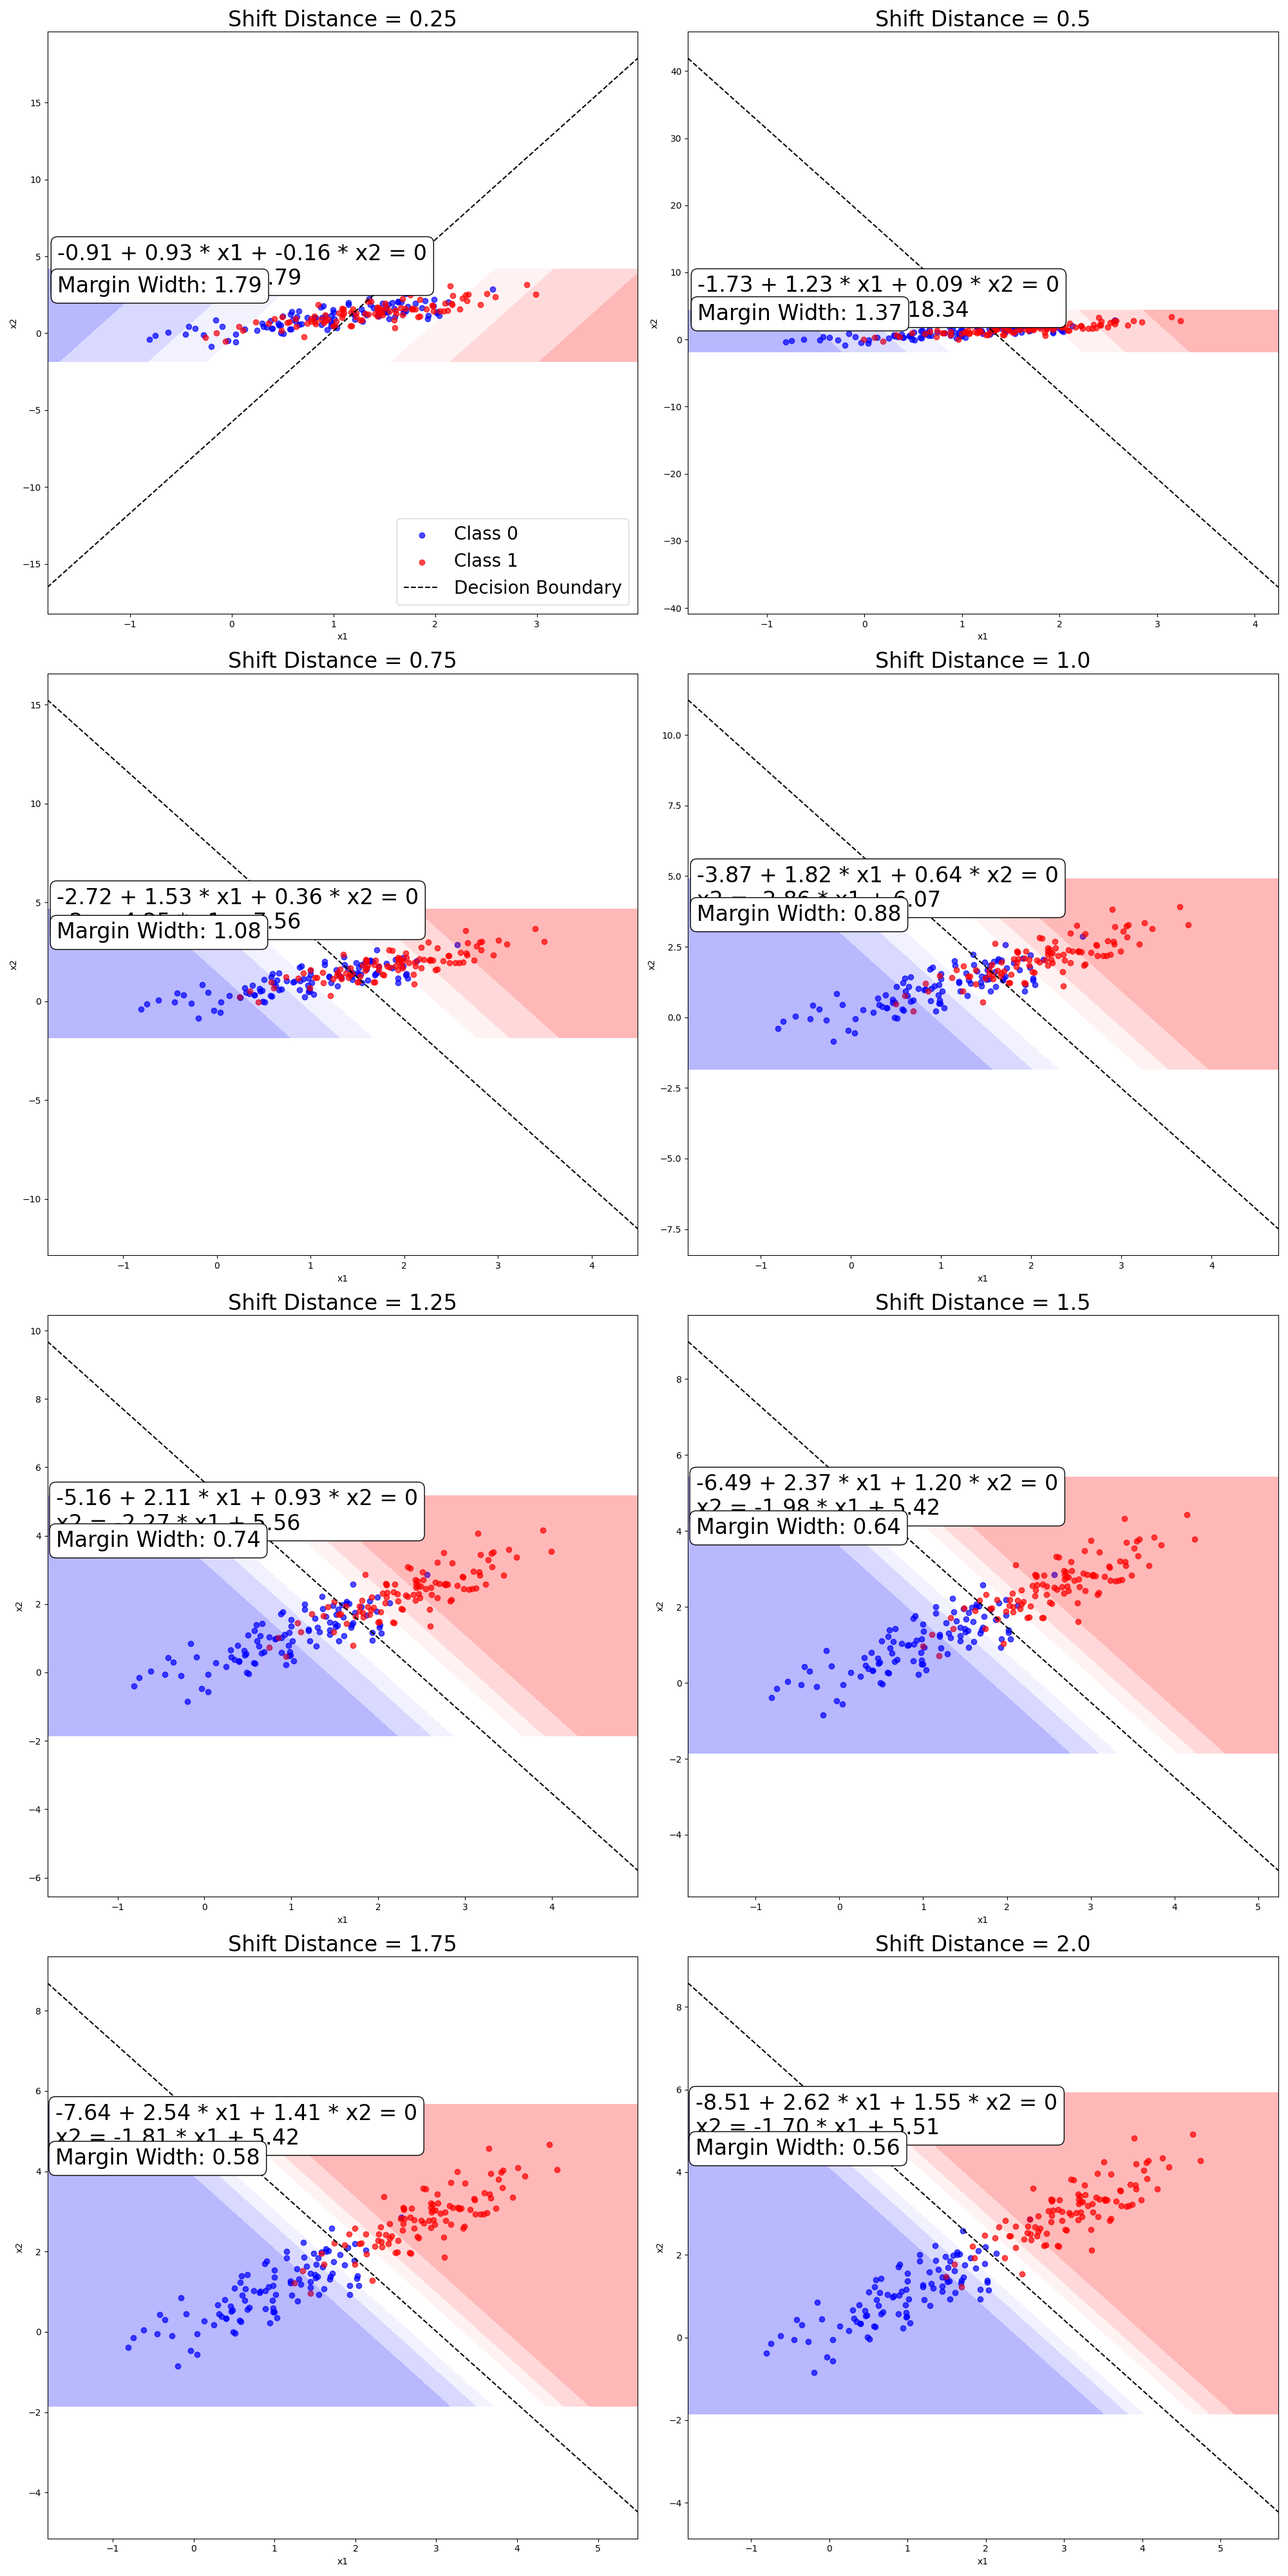
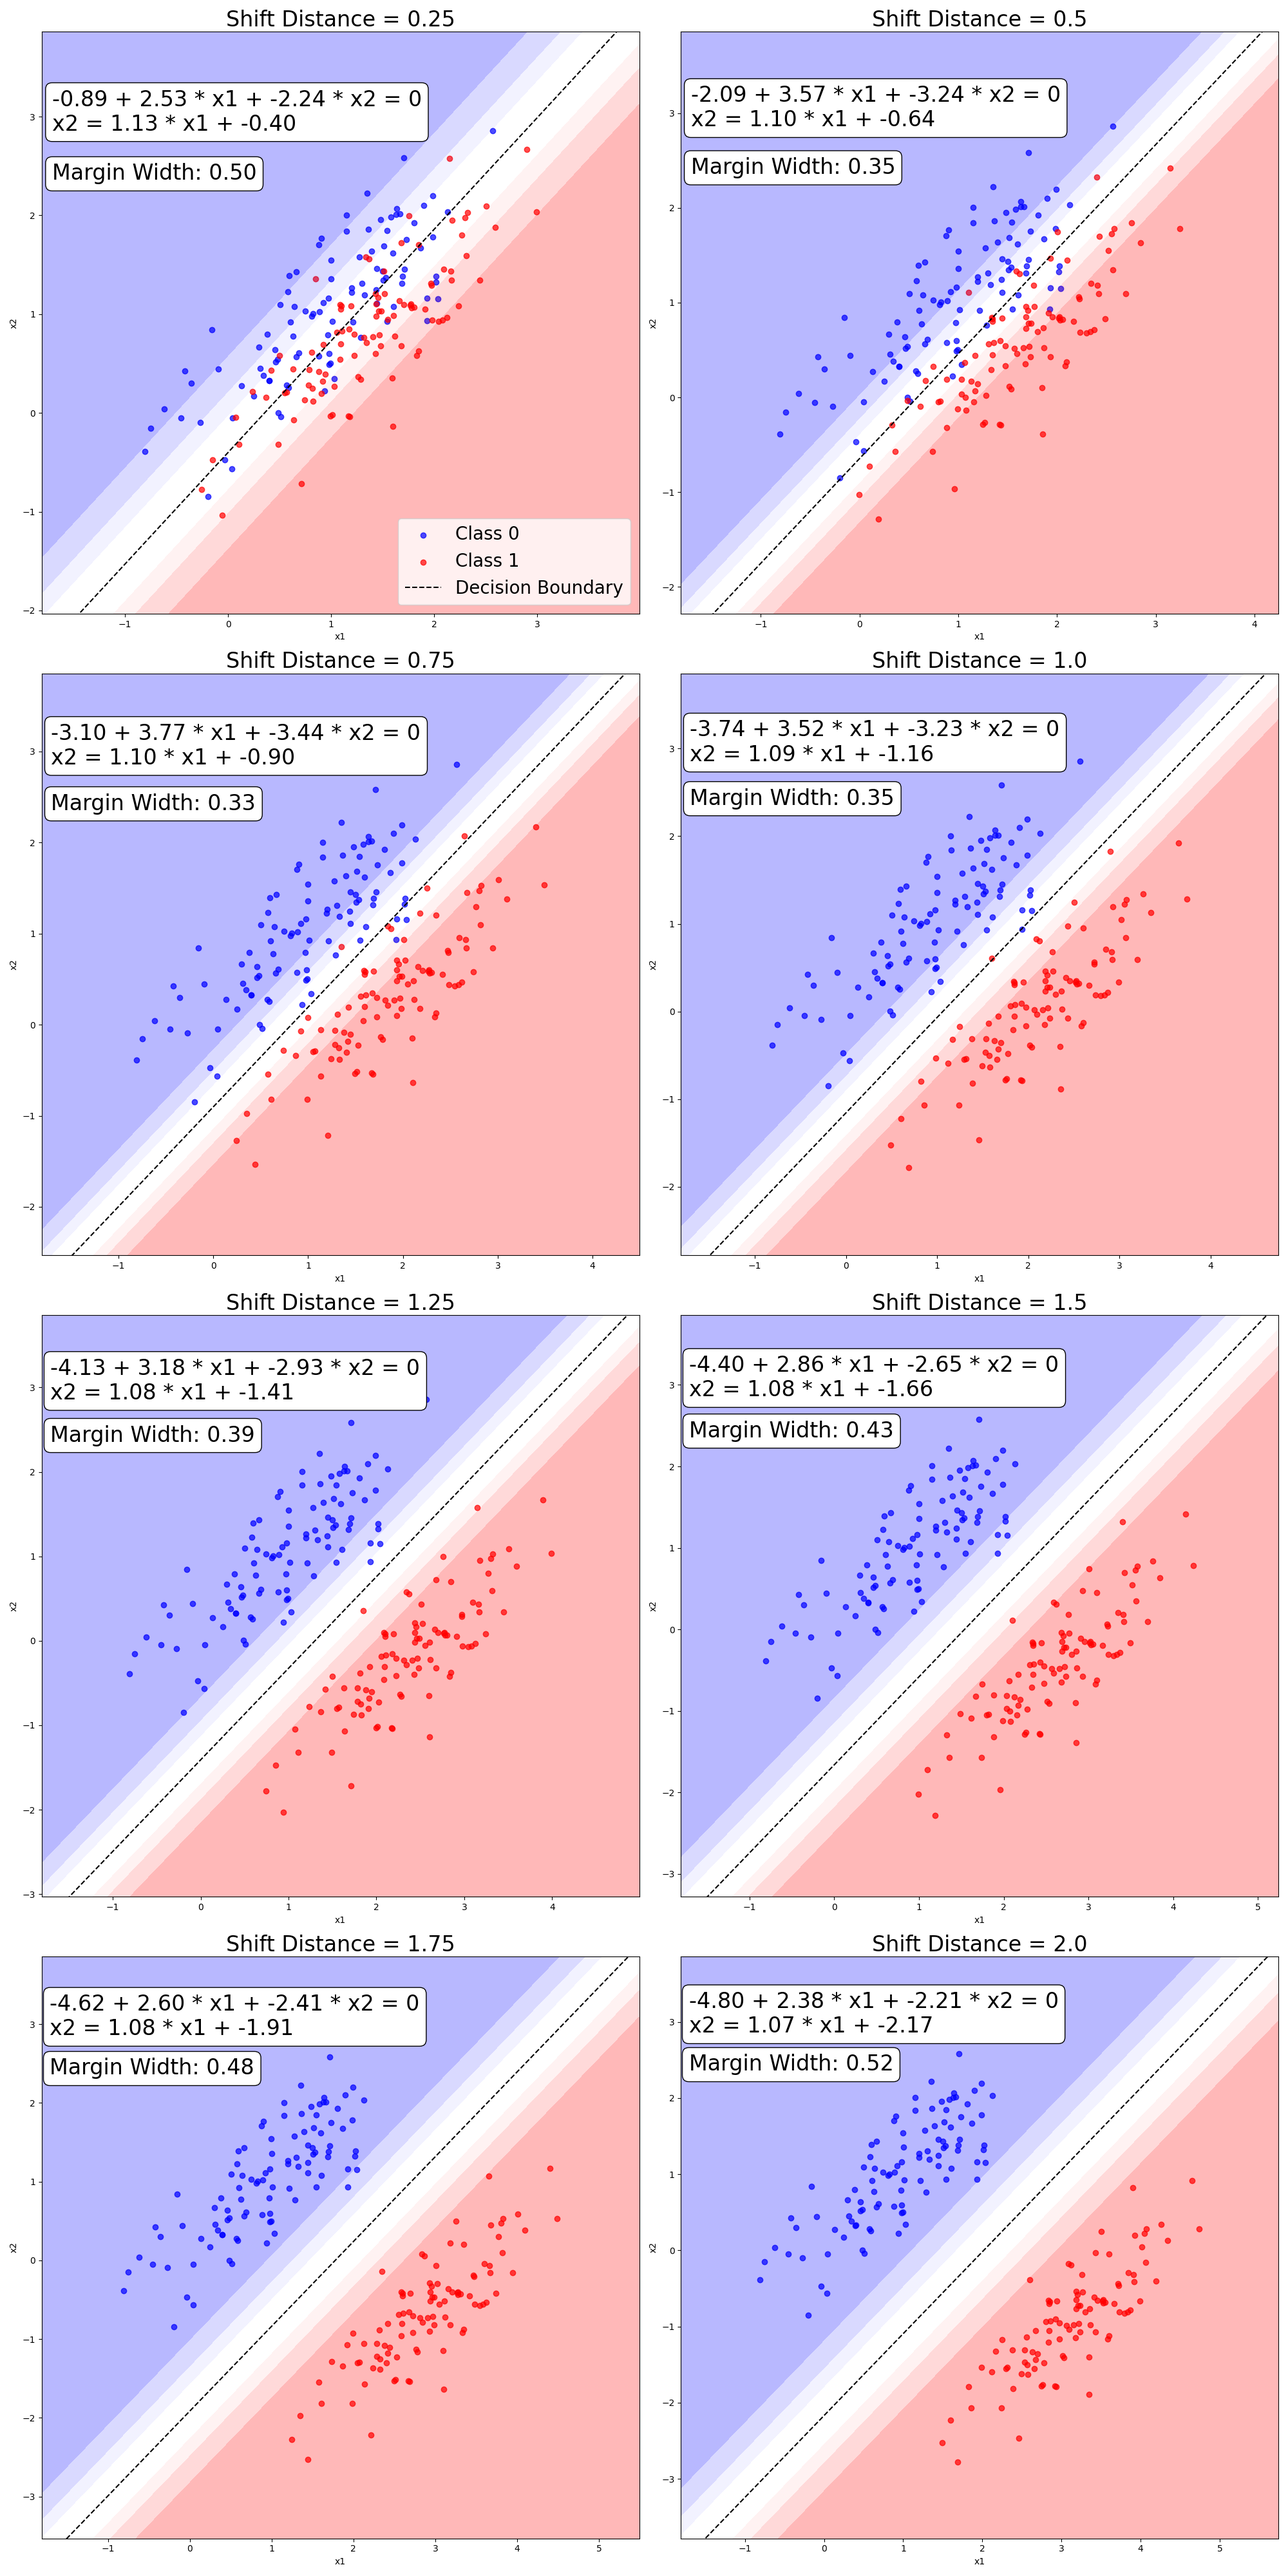
completed assignment 8

diff --git a/logistic_regression.py b/logistic_regression.py
@@ -23,7 +23,7 @@ def generate_ellipsoid_clusters(distance, n_samples=100, cluster_std=0.5):
     
     # Implement: Shift the second cluster along the x-axis and y-axis for a given distance
     # raise NotImplementedError("Implement the shift of the second cluster")
-    X2 += np.array([distance, distance])
+    X2 += np.array([distance, -1*distance])
     y2 = np.ones(n_samples)
 
     # Combine the clusters into one dataset
@@ -85,7 +85,7 @@ def do_experiments(start, end, step_num):
         intercept = -beta0 / beta2  # Decision boundary intercept
         intercept_list.append(intercept)
 
-        x_values = np.linspace(x_min, x_max, 50)
+        x_values = np.linspace(x_min, x_max, 200)
         y_values = slope * x_values + intercept
         plt.plot(x_values, y_values, color='black', linestyle='--', label='Decision Boundary')
 
@@ -153,7 +153,6 @@ def do_experiments(start, end, step_num):
     plt.title("Shift Distance vs Beta1 / Beta2 (Slope)")
     plt.xlabel("Shift Distance")
     plt.ylabel("Beta1 / Beta2")
-    plt.ylim(-2, 0)
 
     # Implement: Plot beta0 / beta2 (Intercept ratio)
     plt.subplot(3, 3, 5)
